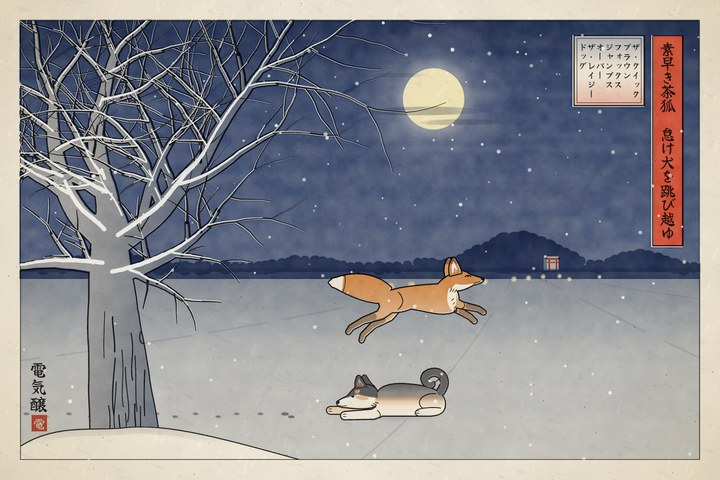
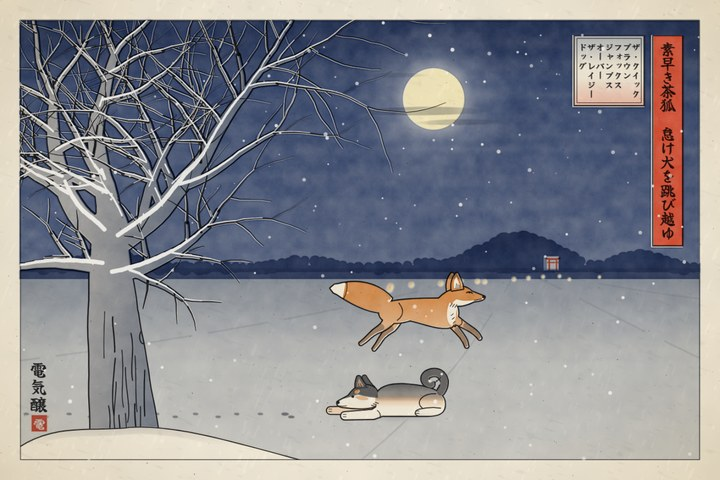
Ukiyo-e: refine the fox's limb proportions, curves and gallop cadence

diff --git a/public/the-quick-brown-fox-jumps-over-the-lazy-dog/ukiyoe.html b/public/the-quick-brown-fox-jumps-over-the-lazy-dog/ukiyoe.html
@@ -187,15 +187,17 @@ function ink(plate, fn) { const x = PL[plate].x; x.save(); logical(x); x.lineCap
 /* ---------- the fox ---------- */
 /* Angles: 0 points straight down, positive swings forward (the fox faces right). */
 const POSES = {
-  run1: { tilt: 0.03, arch: -2, st: 1.08, head: 0.02, tail: 0.12, curl: 0.25, nf: [1.0, 1.25, 1.9], ff: [0.75, 0.95, 1.8], nh: [-0.55, -1.2, -1.15, -0.5], fh: [-0.75, -1.35, -1.3, -0.7] },
-  run2: { tilt: -0.04, arch: 6, st: 0.96, head: 0.1, tail: 0.28, curl: 0.5, nf: [0.15, -0.05, 1.0], ff: [-0.15, -0.3, 0.7], nh: [-0.1, -0.95, -0.55, 0.2], fh: [-0.3, -1.1, -0.8, 0] },
-  run3: { tilt: -0.02, arch: 9, st: 0.9, head: 0.14, tail: 0.32, curl: 0.55, nf: [-0.45, -0.55, 0.3], ff: [-0.2, -0.3, 0.6], nh: [0.9, 0.0, 0.5, 1.3], fh: [0.7, -0.15, 0.35, 1.2] },
-  run4: { tilt: 0.0, arch: 3, st: 1.0, head: 0.06, tail: 0.2, curl: 0.4, nf: [0.45, 0.3, 1.5], ff: [0.25, 0.05, 1.4], nh: [0.45, -0.55, 0.0, 1.0], fh: [0.2, -0.8, -0.25, 0.8] },
-  crouch: { tilt: -0.12, arch: 12, st: 0.88, head: -0.12, tail: 0.35, curl: 0.5, nf: [-0.25, 0.15, 1.5], ff: [-0.05, 0.3, 1.5], nh: [1.15, -1.0, 0.35, 1.3], fh: [1.0, -1.1, 0.25, 1.3] },
-  takeoff: { tilt: 0.4, arch: -2, st: 1.06, head: 0.15, tail: 0.25, curl: 0.3, nf: [1.1, 1.0, 1.3], ff: [0.85, 0.6, 1.1], nh: [-0.7, -1.3, -1.5, -1.6], fh: [-0.5, -1.15, -1.3, -1.4] },
-  flight: { tilt: 0.04, arch: -6, st: 1.1, head: 0.04, tail: 0.3, curl: 0.25, nf: [1.2, 1.35, 1.0], ff: [0.95, 1.05, 0.8], nh: [-0.7, -1.25, -1.05, -0.6], fh: [-0.45, -1.05, -0.8, -0.3] },
-  reach: { tilt: -0.32, arch: 2, st: 1.04, head: -0.12, tail: 0.4, curl: 0.3, nf: [0.6, 0.35, 1.3], ff: [0.85, 0.65, 1.4], nh: [0.5, -0.9, -0.2, 0.6], fh: [0.3, -1.0, -0.4, 0.4] },
-  land: { tilt: -0.16, arch: 8, st: 0.9, head: -0.05, tail: 0.5, curl: 0.45, nf: [0.12, -0.15, 1.4], ff: [0.32, 0.1, 1.45], nh: [0.65, -0.45, 0.3, 1.0], fh: [0.45, -0.65, 0.15, 1.0] },
+  run1:    { tilt:  0.04, arch: -3, st: 1.07, head:  0.02, tail: 0.14, curl: 0.24, nf: [ 0.82,  1.02,  0.52], ff: [ 0.44,  0.60,  0.22], nh: [-0.44, -1.16, -0.78, -1.10], fh: [-0.66, -1.30, -0.96, -1.28] },
+  run2:    { tilt: -0.04, arch:  5, st: 0.97, head:  0.08, tail: 0.26, curl: 0.46, nf: [ 0.34,  0.26,  1.22], ff: [-0.14, -0.38, -0.08], nh: [ 0.16, -0.82, -0.22,  0.10], fh: [-0.12, -1.04, -0.50, -0.28] },
+  run3:    { tilt: -0.02, arch: 10, st: 0.90, head:  0.12, tail: 0.32, curl: 0.54, nf: [-0.32, -0.80, -0.44], ff: [-0.04, -0.56, -0.18], nh: [ 0.92, -0.26,  0.40,  1.12], fh: [ 0.64, -0.50,  0.16,  0.82] },
+  run4:    { tilt:  0.01, arch:  2, st: 1.01, head:  0.05, tail: 0.20, curl: 0.38, nf: [ 0.52,  0.28, -0.12], ff: [ 0.20, -0.06, -0.34], nh: [ 0.34, -0.78, -0.12,  0.92], fh: [ 0.04, -1.02, -0.40,  0.58] },
+  crouch:  { tilt: -0.14, arch: 13, st: 0.88, head: -0.10, tail: 0.34, curl: 0.50, nf: [-0.18,  0.08,  1.34], ff: [ 0.06,  0.26,  1.38], nh: [ 1.04, -0.94,  0.26,  1.26], fh: [ 0.82, -1.08,  0.10,  1.18] },
+  takeoff: { tilt:  0.35, arch: -3, st: 1.05, head:  0.14, tail: 0.24, curl: 0.28, nf: [ 0.84,  0.44, -0.06], ff: [ 0.44, -0.06, -0.56], nh: [-0.42, -1.12, -0.90, -1.24], fh: [-0.12, -0.94, -0.60, -0.92] },
+  rise:    { tilt:  0.17, arch: -7, st: 1.08, head:  0.08, tail: 0.27, curl: 0.26, nf: [ 0.96,  0.82,  0.32], ff: [ 0.66,  0.40, -0.08], nh: [-0.54, -1.20, -0.92, -1.22], fh: [-0.28, -1.04, -0.68, -0.96] },
+  apex:    { tilt: -0.02, arch: -8, st: 1.10, head:  0.03, tail: 0.30, curl: 0.24, nf: [ 1.02,  1.08,  0.56], ff: [ 0.74,  0.70,  0.20], nh: [-0.46, -1.14, -0.80, -1.02], fh: [-0.18, -0.96, -0.56, -0.74] },
+  descend: { tilt: -0.22, arch: -1, st: 1.06, head: -0.06, tail: 0.36, curl: 0.28, nf: [ 0.76,  0.60,  0.44], ff: [ 0.94,  0.86,  0.70], nh: [ 0.16, -0.92, -0.34, -0.14], fh: [ 0.40, -0.78, -0.12,  0.14] },
+  reach:   { tilt: -0.30, arch:  3, st: 1.02, head: -0.12, tail: 0.42, curl: 0.34, nf: [ 0.48,  0.34,  1.16], ff: [ 0.72,  0.62,  1.26], nh: [ 0.60, -0.68,  0.04,  0.54], fh: [ 0.36, -0.86, -0.22,  0.28] },
+  land:    { tilt: -0.14, arch:  9, st: 0.91, head: -0.05, tail: 0.48, curl: 0.44, nf: [ 0.12, -0.12,  1.32], ff: [ 0.32,  0.14,  1.38], nh: [ 0.74, -0.42,  0.30,  1.10], fh: [ 0.46, -0.68,  0.08,  0.90] },
 };
 const RUN = ['run1', 'run2', 'run3', 'run4'];
 function mix(a, b, t) {
@@ -203,8 +205,10 @@ function mix(a, b, t) {
   for (const k in a) o[k] = Array.isArray(a[k]) ? a[k].map((v, i) => lerp(v, b[k][i], t)) : lerp(a[k], b[k], t);
   return o;
 }
-const FRONT = [36, 36, 13], FRONT_R = [12, 6.5, 5, 4.6];
-const HIND = [40, 38, 30, 11], HIND_R = [19, 9, 6, 5, 4.4];
+/* Balanced fox limb proportions: slender reaching forelegs, compact muscular hindlegs
+   with fine wrists/ankles and neat tapered paws rather than uniform tubes. */
+const FRONT = [34, 42, 16], FRONT_R = [13.5, 6.2, 4.1, 3.2];
+const HIND = [34, 30, 24, 14], HIND_R = [18.5, 8.6, 4.7, 3.7, 3.1];
 function legChain(x, y, angles, lens, radii) {
   const pts = [[x, y]];
   angles.forEach((a, i) => { x += Math.sin(a) * lens[i]; y += Math.cos(a) * lens[i]; pts.push([x, y]); });
@@ -222,7 +226,10 @@ function foxRig(pose, X, air) {
   };
   let low = -Infinity;
   for (const l of Object.values(legs)) for (const [, y] of l.pts) low = Math.max(low, y + 4);
-  const tx = X, ty = G - air - low;
+  // Keep a smooth centre-of-mass arc while airborne instead of letting extended paws yank the torso.
+  const airBlend = clamp(air / 28, 0, 1);
+  const baseLow = lerp(low, 66, airBlend * airBlend * (3 - 2 * airBlend));
+  const tx = X, ty = G - air - baseLow;
   const T = (x, y) => { const [u, v] = Bd(x, y); return [u + tx, v + ty]; };
   const hc = Math.cos(-pose.head), hs = Math.sin(-pose.head);
   const N = [60, -30];
@@ -231,17 +238,59 @@ function foxRig(pose, X, air) {
   for (const l of Object.values(legs)) l.pts = l.pts.map(([x, y]) => [x + tx, y + ty]);
   return { T, TH, TT, legs, pose, ground: ty + low };
 }
+/* Organic single-contour limb outline: smooth muscle taper through joints into a neat paw tip. */
 function legPath(l) {
+  const { pts, radii } = l;
+  const n = pts.length;
+  const segN = [];
+  for (let i = 0; i < n - 1; i++) {
+    const dx = pts[i + 1][0] - pts[i][0], dy = pts[i + 1][1] - pts[i][1];
+    const d = Math.hypot(dx, dy) || 1;
+    segN.push([dy / d, -dx / d]); // right-hand normal
+  }
+  const left = [], right = [];
+  for (let i = 0; i < n; i++) {
+    let nx, ny;
+    if (i === 0) { [nx, ny] = segN[0]; }
+    else if (i === n - 1) { [nx, ny] = segN[n - 2]; }
+    else {
+      nx = segN[i - 1][0] + segN[i][0]; ny = segN[i - 1][1] + segN[i][1];
+      const nl = Math.hypot(nx, ny) || 1;
+      // Preserve thickness cleanly around sharper bends (knee / hock / wrist).
+      const dot = clamp(segN[i - 1][0] * (nx / nl) + segN[i - 1][1] * (ny / nl), 0.55, 1);
+      nx = (nx / nl) / dot; ny = (ny / nl) / dot;
+    }
+    const r = radii[i];
+    right.push([pts[i][0] + nx * r, pts[i][1] + ny * r]);
+    left.push([pts[i][0] - nx * r, pts[i][1] - ny * r]);
+  }
+  const dxEnd = pts[n - 1][0] - pts[n - 2][0], dyEnd = pts[n - 1][1] - pts[n - 2][1];
+  const dEnd = Math.hypot(dxEnd, dyEnd) || 1;
+  const tipX = pts[n - 1][0] + (dxEnd / dEnd) * radii[n - 1] * 1.15;
+  const tipY = pts[n - 1][1] + (dyEnd / dEnd) * radii[n - 1] * 1.15;
+
   const p = new Path2D();
-  for (let i = 0; i < l.pts.length - 1; i++) capsule(p, ...l.pts[i], l.radii[i], ...l.pts[i + 1], l.radii[i + 1]);
+  p.moveTo(...right[0]);
+  for (let i = 1; i < n - 1; i++) {
+    const mx = (right[i][0] + right[i + 1][0]) * 0.5, my = (right[i][1] + right[i + 1][1]) * 0.5;
+    p.quadraticCurveTo(right[i][0], right[i][1], mx, my);
+  }
+  p.lineTo(...right[n - 1]);
+  p.quadraticCurveTo(tipX, tipY, ...left[n - 1]);
+  for (let i = n - 2; i >= 1; i--) {
+    const mx = (left[i][0] + left[i - 1][0]) * 0.5, my = (left[i][1] + left[i - 1][1]) * 0.5;
+    p.quadraticCurveTo(left[i][0], left[i][1], mx, my);
+  }
+  p.lineTo(...left[0]);
+  p.closePath();
   return p;
 }
 function lowerLegPath(l, from) {
   const p = new Path2D();
   const [ax, ay] = l.pts[from], [bx, by] = l.pts[from + 1];
   const m = [lerp(ax, bx, 0.45), lerp(ay, by, 0.45)];
-  capsule(p, ...m, lerp(l.radii[from], l.radii[from + 1], 0.45) + 0.4, bx, by, l.radii[from + 1] + 0.4);
-  for (let i = from + 1; i < l.pts.length - 1; i++) capsule(p, ...l.pts[i], l.radii[i] + 0.4, ...l.pts[i + 1], l.radii[i + 1] + 0.4);
+  capsule(p, ...m, lerp(l.radii[from], l.radii[from + 1], 0.45) + 1.2, bx, by, l.radii[from + 1] + 1.2);
+  for (let i = from + 1; i < l.pts.length - 1; i++) capsule(p, ...l.pts[i], l.radii[i] + 1.2, ...l.pts[i + 1], l.radii[i + 1] + 1.2);
   return p;
 }
 function tailPaths(rig) {
@@ -290,9 +339,16 @@ function drawFox(rig) {
   const earTip = (dx) => (x) => { x.save(); x.clip(ear(dx)); x.fillStyle = white(1); x.fill(pathIn(TH).M(-20 + dx, -60).L(30 + dx, -60).L(30 + dx, -38).C(10 + dx, -34, 0 + dx, -36, -20 + dx, -40).Z().p); x.restore(); };
   const innerEar = pathIn(TH).M(0, -18).C(-2, -28, 0, -37, 4, -42).C(8, -35, 11, -27, 13, -19).Z().p;
   const tail = tailPaths(rig);
-  // Far legs, a shade lighter.
-  figure({ shapes: [{ p: legPath(legs.fh) }, { p: legPath(legs.ff) }], fills: [['ochre', 0.62]],
-    after: () => { const p = new Path2D(); p.addPath(lowerLegPath(legs.fh, 1)); p.addPath(lowerLegPath(legs.ff, 1)); ink('usuD', (x) => { x.fillStyle = white(0.95); x.fill(p); }); } });
+  // Far legs, a shade lighter, with dark socks clipped cleanly to each slender limb.
+  const farH = legPath(legs.fh), farF = legPath(legs.ff);
+  figure({ shapes: [{ p: farH }, { p: farF }], fills: [['ochre', 0.62]],
+    after: () => {
+      ink('usuD', (x) => {
+        x.fillStyle = white(0.95);
+        x.save(); x.clip(farH); x.fill(lowerLegPath(legs.fh, 1)); x.restore();
+        x.save(); x.clip(farF); x.fill(lowerLegPath(legs.ff, 1)); x.restore();
+      });
+    } });
   // The tail is part of the body's outline, so no seam shows where it joins.
   const tailAfter = () => {
       ink('ochre', (x) => { x.globalCompositeOperation = 'destination-out'; x.fill(tail.tip); });
@@ -310,7 +366,8 @@ function drawFox(rig) {
   };
   figure({ shapes: [{ p: ear(-10) }], fills: [['ochre', 0.85]], after: () => ink('usuD', earTip(-10)) });
   const back = (x) => { const [a, b] = T(0, -36 - arch), [c, d] = T(0, 32); const g = x.createLinearGradient(a, b, c, d); g.addColorStop(0, white(1)); g.addColorStop(0.55, white(0.82)); g.addColorStop(1, white(0.62)); return g; };
-  figure({ shapes: [{ p: tail.all }, { p: torso }, { p: neck }, { p: head }, { p: legPath(legs.nh) }, { p: legPath(legs.nf) }], fills: [['ochre', back]],
+  const nearH = legPath(legs.nh), nearF = legPath(legs.nf);
+  figure({ shapes: [{ p: tail.all }, { p: torso }, { p: neck }, { p: head }, { p: nearH }, { p: nearF }], fills: [['ochre', back]],
     after: () => {
       tailAfter();
       // White chest, throat and cheek: carved out of the brown block.
@@ -320,7 +377,11 @@ function drawFox(rig) {
         x.fill(pathIn(TH).M(6, 5).C(20, 10, 34, 8, 46, 6).L(40, 9).C(28, 14, 10, 21, -4, 16).C(-2, 10, 2, 7, 6, 5).Z().p);
         x.fill(pathIn((u, v) => (u > 1000 ? TH(u - 2000, v) : T(u, v))).M(2000 - 2, 14).L(2000 + 8, 12).Q(66, 4, 62, 26).Q(56, 10, 2000 - 2, 14).Z().p);
       });
-      ink('usuD', (x) => { x.fillStyle = white(1); x.fill(lowerLegPath(legs.nh, 1)); x.fill(lowerLegPath(legs.nf, 1)); });
+      ink('usuD', (x) => {
+        x.fillStyle = white(1);
+        x.save(); x.clip(nearH); x.fill(lowerLegPath(legs.nh, 1)); x.restore();
+        x.save(); x.clip(nearF); x.fill(lowerLegPath(legs.nf, 1)); x.restore();
+      });
       ink('keyD', (x) => {
         x.strokeStyle = '#fff'; x.fillStyle = '#fff';
         // The near elbow.
@@ -670,23 +731,42 @@ const procession = (() => { const r = rng(3); return Array.from({ length: 14 }, 
 
 const X0 = -240, XT = 594, XL = 1124, X1 = 1760, V = 430, LEAP = 0.85, PEAK = 150;
 const tTake = (XT - X0) / V, tLand = tTake + LEAP, tEnd = tLand + (X1 - XL) / V;
+function runPose(t) {
+  // ~2.55 full gallop strides per second (~169 px/stride at V = 430 px/s), matching ground speed without skating.
+  const cyc = ((t * 10.2) % 4 + 4) % 4;
+  const i = Math.floor(cyc), f = cyc - i;
+  const s = f * f * (3 - 2 * f);
+  return {
+    pose: mix(POSES[RUN[i]], POSES[RUN[(i + 1) % 4]], s),
+    bob: Math.max(0, Math.cos(cyc * Math.PI * 0.5)) * 6,
+  };
+}
 function foxAt(t) {
   if (t < tTake) {
-    const x = X0 + V * t, f = Math.floor(t * FPS);
+    const x = X0 + V * t;
     const left = tTake - t;
-    if (left < 1.5 / FPS) return { x, air: 0, pose: POSES.crouch };
-    return { x, air: 0, pose: POSES[RUN[f % 4]], bob: f % 4 === 0 ? 4 : 0 };
+    const base = runPose(t);
+    if (left < 0.22) {
+      const k = clamp(1 - left / 0.22, 0, 1);
+      return { x, air: 0, pose: mix(base.pose, POSES.crouch, k * k), bob: base.bob * (1 - k) };
+    }
+    return { x, air: 0, pose: base.pose, bob: base.bob };
   }
   if (t < tLand) {
     const p = (t - tTake) / LEAP, x = lerp(XT, XL, p), air = 4 * PEAK * p * (1 - p);
-    const keys = [[0, 'takeoff'], [0.28, 'flight'], [0.7, 'flight'], [0.9, 'reach'], [1, 'land']];
+    const keys = [[0, 'takeoff'], [0.22, 'rise'], [0.50, 'apex'], [0.76, 'descend'], [0.92, 'reach'], [1, 'land']];
     let i = 0; while (i < keys.length - 2 && p > keys[i + 1][0]) i++;
     const [p0, a] = keys[i], [p1, b] = keys[i + 1];
-    return { x, air, pose: mix(POSES[a], POSES[b], clamp((p - p0) / (p1 - p0), 0, 1)) };
+    const u = clamp((p - p0) / (p1 - p0), 0, 1);
+    return { x, air, pose: mix(POSES[a], POSES[b], u * u * (3 - 2 * u)) };
   }
-  const x = XL + V * (t - tLand), f = Math.floor((t - tLand) * FPS);
-  if (f < 1) return { x, air: 0, pose: POSES.land };
-  return { x, air: 0, pose: POSES[RUN[(f + 1) % 4]], bob: (f + 1) % 4 === 0 ? 4 : 0 };
+  const dt = t - tLand, x = XL + V * dt;
+  const base = runPose(dt + 0.18);
+  if (dt < 0.18) {
+    const k = clamp(dt / 0.18, 0, 1);
+    return { x, air: 0, pose: mix(POSES.land, base.pose, k * (2 - k)), bob: base.bob * k };
+  }
+  return { x, air: 0, pose: base.pose, bob: base.bob };
 }
 
 function drawDynamic(time) {
